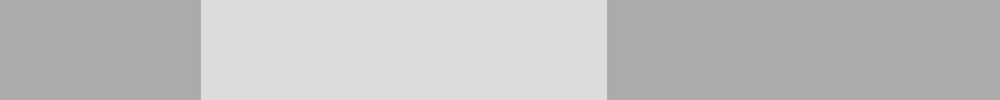
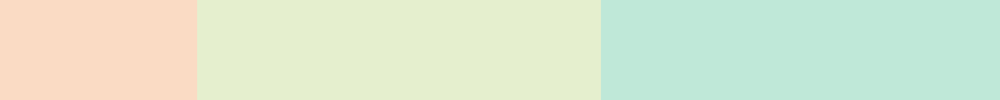
updating colors in images

diff --git a/README.md b/README.md
@@ -27,10 +27,10 @@ const Layout = () => {
   return (
     <Row>
       <Column columnWidth="1/2">
-        <Cell style={{ backgroundColor: '#ababab' }} />
+        <Cell style={{ backgroundColor: '#FF9AA2' }} />
       </Column>
       <Column columnWidth="1/2">
-        <Cell style={{ backgroundColor: '#dcdcdc' }} />
+        <Cell style={{ backgroundColor: '#FFB7B2' }} />
       </Column>
     </Row>
   );
@@ -48,16 +48,16 @@ export default Layout;
 ```html
 <Row>
   <Column columnWidth="1/8">
-    <Cell style={{ backgroundColor: '#ababab' }} />
+    <Cell style={{ backgroundColor: '#FFDAC1' }} />
   </Column>
   <Column columnWidth="1/8">
-    <Cell style={{ backgroundColor: '#dcdcdc' }} />
+    <Cell style={{ backgroundColor: '#E2F0CB' }} />
   </Column>
   <Column columnWidth="1/4">
-    <Cell style={{ backgroundColor: '#ababab' }} />
+    <Cell style={{ backgroundColor: '#B5EAD7' }} />
   </Column>
   <Column columnWidth="1/2">
-    <Cell style={{ backgroundColor: '#dcdcdc' }} />
+    <Cell style={{ backgroundColor: '#C7CEEA' }} />
   </Column>
 </Row>
 ```
@@ -71,10 +71,10 @@ export default Layout;
 ```html
 <Row>
   <Column columnWidth="1/3">
-    <Cell style={{ backgroundColor: '#ababab' }} />
+    <Cell style={{ backgroundColor: '#FF9AA2' }} />
   </Column>
   <Column columnWidth="2/3">
-    <Cell style={{ backgroundColor: '#dcdcdc' }} />
+    <Cell style={{ backgroundColor: '#FFB7B2' }} />
   </Column>
 </Row>
 ```
@@ -88,13 +88,13 @@ export default Layout;
 ```html
 <Row>
   <Column columnWidth="1/5">
-    <Cell style={{ backgroundColor: '#ababab' }} />
+    <Cell style={{ backgroundColor: '#FFDAC1' }} />
   </Column>
   <Column columnWidth="2/5">
-    <Cell style={{ backgroundColor: '#dcdcdc' }} />
+    <Cell style={{ backgroundColor: '#E2F0CB' }} />
   </Column>
   <Column columnWidth="2/5">
-    <Cell style={{ backgroundColor: '#ababab' }} />
+    <Cell style={{ backgroundColor: '#B5EAD7' }} />
   </Column>
 </Row>
 ```
@@ -106,8 +106,8 @@ export default Layout;
 
 **Putting it all together**
 ```html
-<div>
-  
+<div style={{ border: '2px solid #999999' }}>
+
   <Row gutter="20px" removeBottomGutter>
     <Column columnWidth="1">
       <Cell style={{ backgroundColor: '#FF9AA2' }} />
